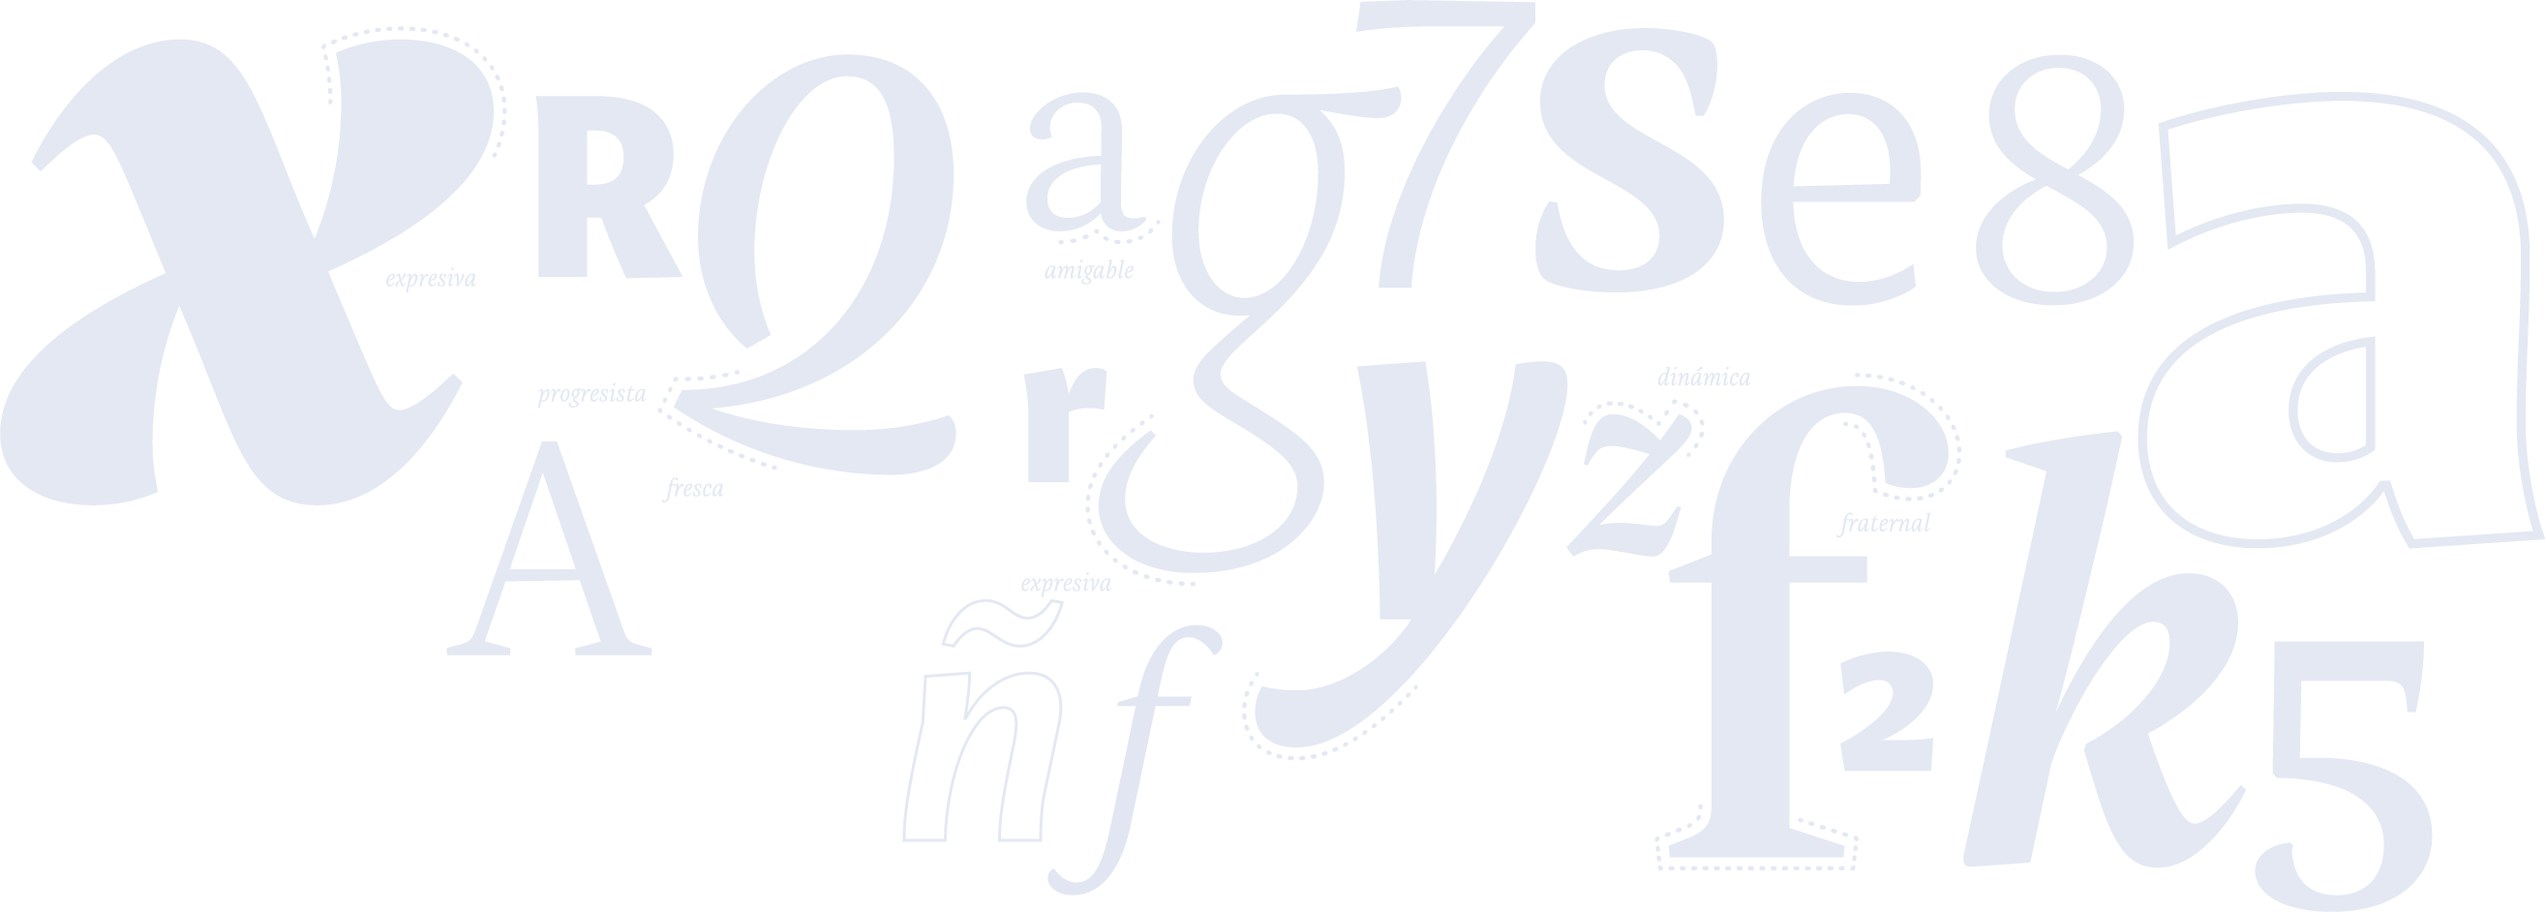
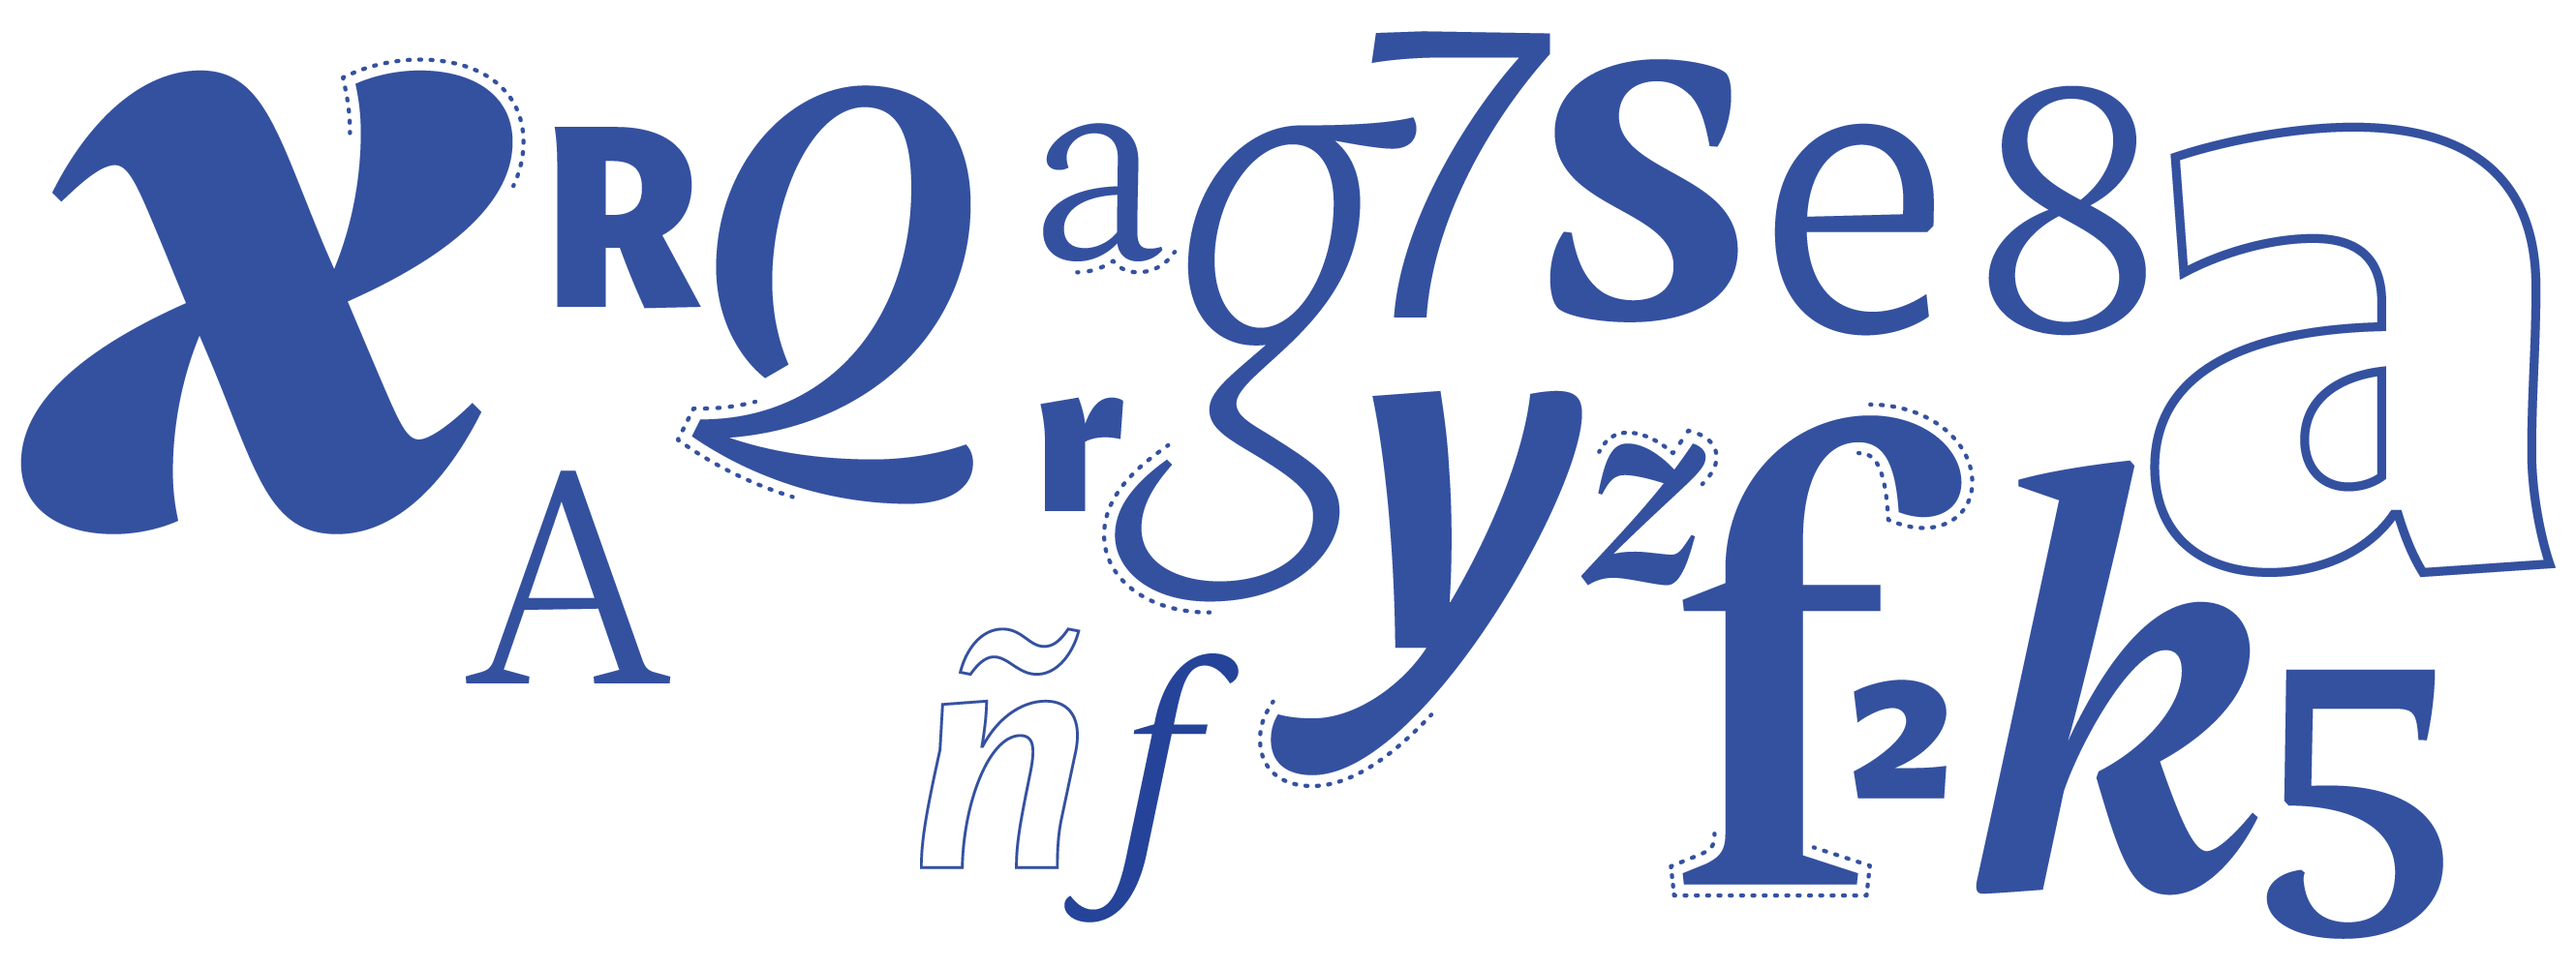
Style
Se actualizó la imagen del header y los estilos.

Changed region(s): [[0.0, 0.0, 1.0, 1.0], [0.3741, 0.6465, 0.4365, 0.8312], [0.6548, 0.4002, 0.6859, 0.431]]

diff --git a/js/lenguaje.js b/js/lenguaje.js
@@ -314,14 +314,50 @@
 
             }
     	};
-        var lang = 'es';
-        /*Cambiar textos*/
-        $('.lang').each(function(index, element){
-                $(this).html(arrLang[lang][$(this).attr('key')]);
-        });
+        
+        
+        //Primera vez que ingresa
+        if(localStorage.getItem("idiomaDefault") == null)
+        {
+            var lang = 'es';
+        }
+        else//Ya hay un idioma definido
+        {
+            var lang = localStorage.getItem("idiomaDefault");
+            /*Cambiar textos*/
+            $('.lang').each(function(index, element){
+                    $(this).html(arrLang[lang][$(this).attr('key')]);
+            });
+
+            switch(lang) {
+                case 'es':
+                    $('#videoHermano').attr('data-embed', 'EIZa5k7Wgsk');
+                    
+                break;
+                
+                case 'fr':
+                    $('#videoHermano').attr('data-embed', 'HyHNuVaZJ-k');
+                break;
+                
+                case 'en':
+                    $('#videoHermano').attr('data-embed', 'HyHNuVaZJ-k');
+
+                break;
+                    
+                case 'pt':
+                    $('#videoHermano').attr('data-embed', 'HyHNuVaZJ-k');
+                break;
+
+                default:
+                    $('#videoHermano').attr('data-embed', 'EIZa5k7Wgsk');
+            }
+        }
+        
+
     	$(function(){
 
-    		$('.translate').click(function(){
+    		$('.translate').click(function()
+            {
     			var lang = $(this).attr('id');
                 /*Cambiar textos*/
     			$('.lang').each(function(index, element){
@@ -363,6 +399,7 @@
                         $('meta[property=og\\:description]').attr('content', 'Indivisa Font: One “voice” for everyone, for everything.');
                         $('meta[name=twitter\\:title]').attr('content', 'Indivisa Font: La Salle Font.  Design| Brand | Communication');
                         $('meta[name=twitter\\:description]').attr('content', 'Indivisa Font: One “voice” for everyone, for everything.');
+                        $('#videoHermano').attr('data-embed', 'HyHNuVaZJ-k');
                         break;
                     case 'pt':
                         $('meta[name=description]').attr('content', '');
@@ -375,6 +412,22 @@
                         $('meta[name=twitter\\:description]').attr('content', 'Indivisa Font: Una sola “voz” para todos, para todo.');
                 }
 
+                //Se asigna el idioma default
+                if(typeof(Storage) !== "undefined") 
+                {
+                    localStorage.setItem("idiomaDefault",lang);
+                    location.reload();
+                    //$('#videoHermano').load('',lazyloadVideo());
+                } 
+                else 
+                {
+                    //document.getElementById("result").innerHTML = "Sorry, your browser does not support web storage...";
+                    console.log("Sorry, your browser does not support web storage...");
+                }
+
     		});
+            /*Cambiar videos*/
+            console.log(localStorage.getItem("idiomaDefault"));
     	});
 });
+

diff --git a/css/custom.css b/css/custom.css
@@ -676,13 +676,13 @@ h2.fontPalabra{
 }
 .bgTextura{
   background-image: url('../images/contenido/background.png');
-  -webkit-background-size: contain;
-  -moz-background-size: contain;
-  background-size:  contain;
+  -webkit-background-size: cover;
+  -moz-background-size: cover;
+  background-size:  cover;
   -o-background-size: contain;
-  background-position: top;
+  background-position: center;
   background-repeat: no-repeat;
-  background-attachment: fixed;
+  background-attachment: initial;
 }
 
 #inicio,#aplicaciones{
@@ -718,7 +718,7 @@ p.cotenidoTipografiaTodos{
   -o-background-size: cover;
   background-position: center;
   background-repeat: no-repeat;
-  background-attachment: fixed;
+  background-attachment: initial;
 }
 
 .round-button {

diff --git a/index.php b/index.php
@@ -6,16 +6,14 @@ include 'header.php';
 */
 ?>
 <section id="inicio" class="container-fluid">
-		<div class="row backGroundAzul ">
+		<div class="row backGroundAzul bgTextura justify-content-center">
 			<div class="container">
 				<div class="row justify-content-center">
 					<div class="col-12 col-sm-10 col-md-6">
 						<p class="textoAmarillo fraseIntro lang" key="inicio-frase1">La identidad se construye<br><span>- cuando existe una voz única.</span></p>
 					</div>
 				</div>
-			</div>	
-		</div>
-		<div class="row backGroundAzul bgTextura justify-content-center">	
+			</div>		
 			<div class="col">
 				<h1>Indivisa</h1>
 				<div class="row justify-content-center">
@@ -61,7 +59,7 @@ include 'header.php';
 				
 			</div>
 			<div class="col-12 col-sm-12 col-md-6 videoFull videoSuperior">
-				<div class="youtube" data-embed="EIZa5k7Wgsk">
+				<div id="videoHermano" class="youtube" data-embed="EIZa5k7Wgsk">
 	                <div class="play-button"></div>
 	            </div>
 	        </div>

diff --git a/footer.php b/footer.php
@@ -157,19 +157,11 @@
 	<script src="js/descargable.js"></script>
 	<script>
 		$(document).ready(function()
-		{
-		    //Resetea el video al cerrar el Modal
-		    $("button.close").click(function()
-		    {
-		        //Obtiene la URL del video
-		        var url = $('.videos').attr('src');
-		        //Asigna vacio a la URL para pausar
-		        $('.videos').attr('src', '');
-		        // Regresa la URL del video
-				$('.videos').attr('src', url);
-		    });
+		{	
+			lazyloadVideo();
+
 		    //LazyLoad video youtube
-		    ( function() {
+		    function lazyloadVideo() {
 				var youtube = document.querySelectorAll( ".youtube" );
 				for (var i = 0; i < youtube.length; i++) 
 				{
@@ -193,7 +185,7 @@
 										this.appendChild( iframe );
 							} );	
 				};
-			})();
+			};
 		});
 	</script>
 	<script>
